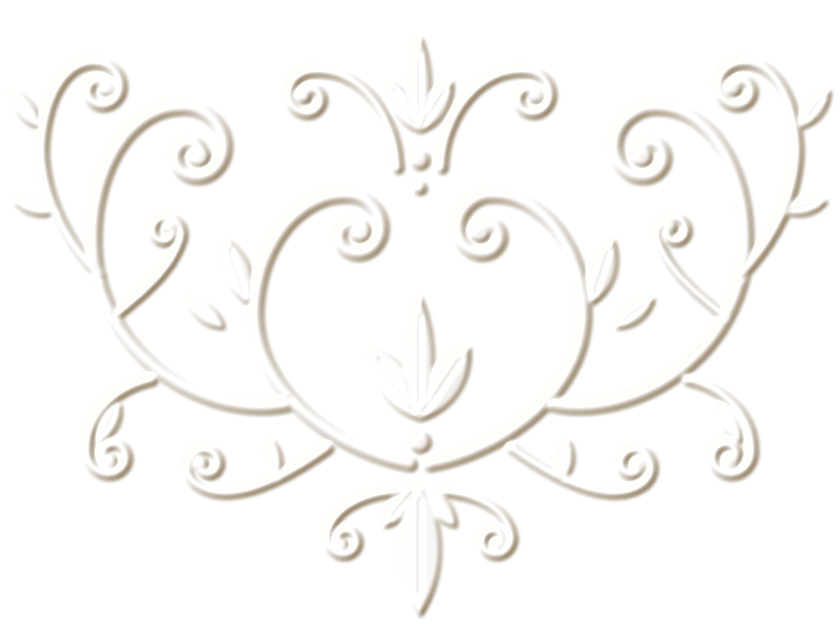
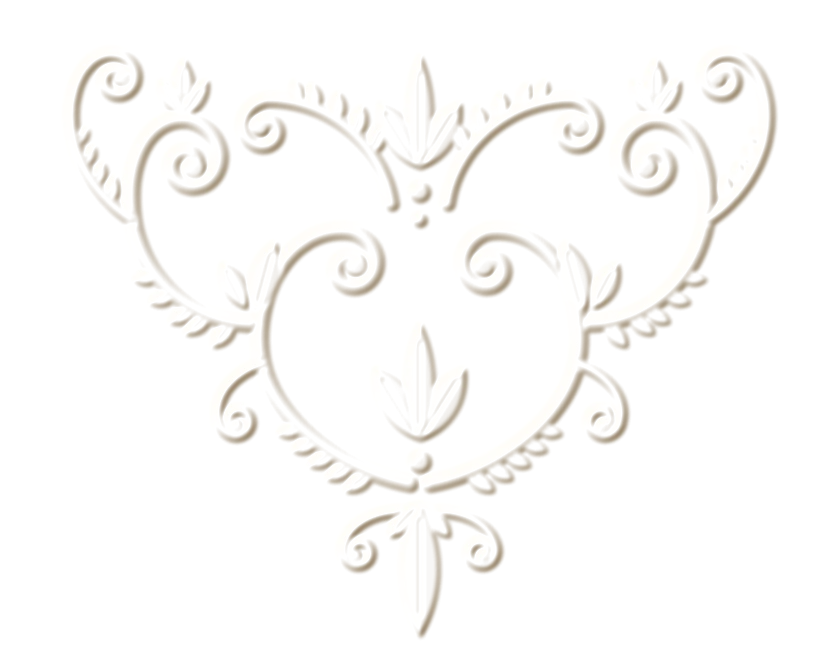
Four-flap embossed envelope with a pearl-and-gold RF seal
- Four flaps meet at the centre again, each with its own embossed scrollwork:
  a triangular damask on the top and bottom flaps, a tall vine on each side
- Scrolls are fuller: rolled volutes with acanthus leaves along them
- The seal is a round badge: pearl disc, polished gold rim and the RF crest
  raised in gold, replacing the free-standing gold letters
- Hint reads "Tap the seal to open"

diff --git a/lib/markup.js b/lib/markup.js
@@ -1,2 +1,2 @@
 // The invitation's HTML. __GUEST__ is replaced with the guest's name.
-export const MARKUP = "<div id=\"ground\" aria-hidden=\"true\"></div>\n<canvas id=\"dust\" aria-hidden=\"true\"></canvas>\n<div id=\"progress\" aria-hidden=\"true\"></div>\n<button id=\"music\" type=\"button\" aria-pressed=\"false\" aria-label=\"Turn music on\" hidden><i></i><i></i><i></i><i></i></button>\n\n<svg width=\"0\" height=\"0\" style=\"position:absolute\" aria-hidden=\"true\">\n  <defs>\n    <symbol id=\"heart\" viewBox=\"0 0 40 40\"><path d=\"M20 33C8 24 5 18 5 13.5C5 9 8.5 6 12.5 6C15.5 6 18.3 7.8 20 11C21.7 7.8 24.5 6 27.5 6C31.5 6 35 9 35 13.5C35 18 32 24 20 33Z\"/></symbol>\n  </defs>\n</svg>\n\n<!-- ============ ENTRANCE ============ -->\n<div id=\"gate\" role=\"dialog\" aria-label=\"Invitation cover\">\n  <div class=\"fw l\"><div class=\"f\"></div></div>\n  <div class=\"fw r\"><div class=\"f\"></div></div>\n  <div class=\"fw b\"><div class=\"f\"></div></div>\n  <div class=\"fw t\"><div class=\"f\"></div></div>\n  <div class=\"glide\"></div>\n  <div class=\"seal-wrap\">\n    <span class=\"ripple idle\"></span><span class=\"ripple b\"></span>\n    <button class=\"seal\" id=\"openBtn\" type=\"button\" aria-label=\"Open invitation\">\n      <img src=\"/emboss/emblem.webp\" alt=\"\" width=\"128\" height=\"128\" draggable=\"false\">\n    </button>\n  </div>\n  <div class=\"tag\">\n    <span class=\"label\">An invitation for</span>\n    <span class=\"sign\" data-guest>__GUEST__</span>\n    <span class=\"label tap\">Tap the emblem to open</span>\n  </div>\n</div>\n\n<main>\n  <!-- ============ CARD 1 \u00b7 NAMES ============ -->\n  <article class=\"card hero\">\n    <div class=\"stage\" style=\"--i:0\" data-mono=\"big\"></div>\n    <p class=\"label stage\" style=\"--i:2\">Wedding Invitation</p>\n    <div class=\"names\">\n      <span class=\"n\" data-split data-groom>Raish Ahemad</span>\n      <div class=\"and stage\" style=\"--i:3\"><span class=\"sign\">and</span></div>\n      <span class=\"n\" data-split data-bride style=\"--base:3.8s\">Falaknaaz</span>\n    </div>\n    <p class=\"dotdate stage\" style=\"--i:7\" data-dot>27.12.2026</p>\n    <p class=\"blessing stage\" style=\"--i:8\">With the grace of the Almighty and the blessings of our elders</p>\n    <p class=\"family stage\" style=\"--i:9\">The Wankanery Family</p>\n  </article>\n\n  <!-- ============ CARD 2 \u00b7 WE ARE DELIGHTED ============ -->\n  <article class=\"card reveal\">\n    <h2 class=\"reveal\">We are delighted</h2>\n    <p class=\"label lead reveal\">to share with you the joy of a day that means everything to us</p>\n    <div class=\"bigdate reveal\">\n      <b data-dm>27.12</b>\n      <div class=\"and\"><span class=\"sign\">day</span></div>\n      <b data-yr>2026</b>\n    </div>\n    <svg class=\"wave reveal\" viewBox=\"0 0 320 40\" aria-hidden=\"true\">\n      <path class=\"l\" d=\"M4 22C60 4 100 36 148 20C156 17 158 8 152 8C146 8 148 18 160 22C210 38 262 6 316 20\"/>\n    </svg>\n    <p class=\"label reveal\">Dear</p>\n    <p class=\"sign guest reveal\" data-guest>__GUEST__</p>\n    <p class=\"text reveal\">It would mean the world to us to have you with us as we begin our life together. Please come, bring your smiles and your blessings, and be part of our happiest day.</p>\n    <p class=\"text reveal\">With love,</p>\n    <p class=\"sign from reveal\"><span data-groom>Raish Ahemad</span> &amp; <span data-bride>Falaknaaz</span></p>\n    <p class=\"label reveal\">and the Wankanery family</p>\n  </article>\n\n  <!-- ============ CARD 3 \u00b7 DATES ============ -->\n  <article class=\"card reveal\">\n    <h2 class=\"reveal\" data-month>December 2026</h2>\n    <div class=\"cal reveal\" id=\"cal\"></div>\n    <div class=\"legend reveal\" id=\"legend\"></div>\n    <div class=\"orn reveal\"><i></i></div>\n    <h2 class=\"reveal\">The celebrations</h2>\n    <div class=\"timeline reveal\" id=\"timeline\"></div>\n  </article>\n\n  <!-- ============ CARD 4 \u00b7 COUNTDOWN & PLACE ============ -->\n  <article class=\"card reveal\">\n    <h2 class=\"reveal\" id=\"countTitle\">Until the wedding</h2>\n    <p class=\"label reveal\" id=\"countSub\">Only a little time left</p>\n    <div class=\"count reveal\" id=\"count\">\n      <div><b id=\"cd\">00</b><span>Days</span></div><i>:</i>\n      <div><b id=\"ch\">00</b><span>Hours</span></div><i>:</i>\n      <div><b id=\"cm\">00</b><span>Minutes</span></div><i>:</i>\n      <div><b id=\"cs\">00</b><span>Seconds</span></div>\n    </div>\n    <div class=\"orn reveal\"><i></i></div>\n    <h2 class=\"reveal\">Locations</h2>\n    <svg class=\"pin reveal\" viewBox=\"0 0 44 56\" aria-hidden=\"true\">\n      <g fill=\"none\" stroke=\"#b3925a\" stroke-width=\"1.2\" stroke-linecap=\"round\" stroke-linejoin=\"round\">\n        <path d=\"M22 52C10 36 6 28 6 20A16 16 0 0 1 38 20C38 28 34 36 22 52Z\"/>\n        <path d=\"M22 27C16.500 22.500 15 20 15 17.800C15 15.600 16.700 14 18.600 14C20 14 21.300 14.900 22 16.400C22.700 14.900 24 14 25.400 14C27.300 14 29 15.600 29 17.800C29 20 27.500 22.500 22 27Z\"/>\n      </g>\n    </svg>\n    <div class=\"venue reveal\">\n      <p class=\"vtag\">Nikah</p>\n      <p class=\"at\">Sunday, 27 December \u00b7 10:00 AM</p>\n      <p class=\"vname\">Juni Eidgah Masjid</p>\n      <p class=\"label\">Salabatpura, Surat</p>\n      <a class=\"btn\" href=\"https://www.google.com/maps/search/?api=1&amp;query=Juni%20Eidgah%20Masjid%2C%20Salabatpura%2C%20Surat\" target=\"_blank\" rel=\"noopener\">Open map</a>\n    </div>\n    <div class=\"venue reveal\">\n      <p class=\"vtag\">Reception</p>\n      <p class=\"at\">Tuesday, 29 December \u00b7 12:00 PM</p>\n      <p class=\"vname\">Hazrat Pir Saiyad Kasim Ali Dargah</p>\n      <p class=\"label\">Near Old Vegetable Market, Dholka, Ahmedabad</p>\n      <a class=\"btn\" href=\"https://share.google/Ud70dLBy3rxCpIHBt\" target=\"_blank\" rel=\"noopener\">Open map</a>\n    </div>\n  </article>\n\n  <!-- ============ CARD 5 \u00b7 WISHES & REPLY ============ -->\n  <article class=\"card last reveal\">\n    <h2 class=\"reveal\">Wishes</h2>\n    <div class=\"wish reveal\"><span class=\"label\">Gifts</span><p>Having you there is all we ask for. Please come as you are and celebrate with us.</p></div>\n    <div class=\"wish reveal\"><span class=\"label\">A request</span><p>Keep us in your prayers and good wishes as we start this new chapter.</p></div>\n    <div class=\"orn reveal\"><i></i></div>\n    <h2 class=\"reveal\">Contact</h2>\n    <p class=\"label lead reveal\">For any help on the day, please call</p>\n    <a class=\"contact reveal\" href=\"tel:+919408782333\"><span class=\"label\">Raish Ahemad</span><b>94087 82333</b></a>\n    <a class=\"contact reveal\" href=\"tel:+919825594333\"><span class=\"label\">Zishan Momin</span><b>98255 94333</b></a>\n    <svg class=\"wave reveal\" viewBox=\"0 0 320 40\" aria-hidden=\"true\" style=\"margin-top:20px\">\n      <path class=\"l\" d=\"M4 20C60 4 104 34 140 20M180 20C216 6 260 36 316 20\"/><use class=\"h beat\" href=\"#heart\" x=\"150\" y=\"10\" width=\"20\" height=\"20\"/>\n    </svg>\n    <p class=\"label reveal\">We are waiting for you</p>\n    <p class=\"sign guest reveal\" data-guest>__GUEST__</p>\n    <p class=\"family reveal\">The Wankanery Family</p>\n    <div class=\"reveal\" data-mono=\"small\"></div>\n  </article>\n</main>\n\n<div class=\"foot\"></div>";
+export const MARKUP = "<div id=\"ground\" aria-hidden=\"true\"></div>\n<canvas id=\"dust\" aria-hidden=\"true\"></canvas>\n<div id=\"progress\" aria-hidden=\"true\"></div>\n<button id=\"music\" type=\"button\" aria-pressed=\"false\" aria-label=\"Turn music on\" hidden><i></i><i></i><i></i><i></i></button>\n\n<svg width=\"0\" height=\"0\" style=\"position:absolute\" aria-hidden=\"true\">\n  <defs>\n    <symbol id=\"heart\" viewBox=\"0 0 40 40\"><path d=\"M20 33C8 24 5 18 5 13.5C5 9 8.5 6 12.5 6C15.5 6 18.3 7.8 20 11C21.7 7.8 24.5 6 27.5 6C31.5 6 35 9 35 13.5C35 18 32 24 20 33Z\"/></symbol>\n  </defs>\n</svg>\n\n<!-- ============ ENTRANCE ============ -->\n<div id=\"gate\" role=\"dialog\" aria-label=\"Invitation cover\">\n  <div class=\"fw l\"><div class=\"f\"></div></div>\n  <div class=\"fw r\"><div class=\"f\"></div></div>\n  <div class=\"fw b\"><div class=\"f\"></div></div>\n  <div class=\"fw t\"><div class=\"f\"></div></div>\n  <div class=\"glide\"></div>\n  <div class=\"seal-wrap\">\n    <span class=\"ripple idle\"></span><span class=\"ripple b\"></span>\n    <button class=\"seal\" id=\"openBtn\" type=\"button\" aria-label=\"Open invitation\">\n      <img src=\"/emboss/badge.webp\" alt=\"\" width=\"136\" height=\"136\" draggable=\"false\">\n    </button>\n  </div>\n  <div class=\"tag\">\n    <span class=\"label\">An invitation for</span>\n    <span class=\"sign\" data-guest>__GUEST__</span>\n    <span class=\"label tap\">Tap the seal to open</span>\n  </div>\n</div>\n\n<main>\n  <!-- ============ CARD 1 \u00b7 NAMES ============ -->\n  <article class=\"card hero\">\n    <div class=\"stage\" style=\"--i:0\" data-mono=\"big\"></div>\n    <p class=\"label stage\" style=\"--i:2\">Wedding Invitation</p>\n    <div class=\"names\">\n      <span class=\"n\" data-split data-groom>Raish Ahemad</span>\n      <div class=\"and stage\" style=\"--i:3\"><span class=\"sign\">and</span></div>\n      <span class=\"n\" data-split data-bride style=\"--base:3.8s\">Falaknaaz</span>\n    </div>\n    <p class=\"dotdate stage\" style=\"--i:7\" data-dot>27.12.2026</p>\n    <p class=\"blessing stage\" style=\"--i:8\">With the grace of the Almighty and the blessings of our elders</p>\n    <p class=\"family stage\" style=\"--i:9\">The Wankanery Family</p>\n  </article>\n\n  <!-- ============ CARD 2 \u00b7 WE ARE DELIGHTED ============ -->\n  <article class=\"card reveal\">\n    <h2 class=\"reveal\">We are delighted</h2>\n    <p class=\"label lead reveal\">to share with you the joy of a day that means everything to us</p>\n    <div class=\"bigdate reveal\">\n      <b data-dm>27.12</b>\n      <div class=\"and\"><span class=\"sign\">day</span></div>\n      <b data-yr>2026</b>\n    </div>\n    <svg class=\"wave reveal\" viewBox=\"0 0 320 40\" aria-hidden=\"true\">\n      <path class=\"l\" d=\"M4 22C60 4 100 36 148 20C156 17 158 8 152 8C146 8 148 18 160 22C210 38 262 6 316 20\"/>\n    </svg>\n    <p class=\"label reveal\">Dear</p>\n    <p class=\"sign guest reveal\" data-guest>__GUEST__</p>\n    <p class=\"text reveal\">It would mean the world to us to have you with us as we begin our life together. Please come, bring your smiles and your blessings, and be part of our happiest day.</p>\n    <p class=\"text reveal\">With love,</p>\n    <p class=\"sign from reveal\"><span data-groom>Raish Ahemad</span> &amp; <span data-bride>Falaknaaz</span></p>\n    <p class=\"label reveal\">and the Wankanery family</p>\n  </article>\n\n  <!-- ============ CARD 3 \u00b7 DATES ============ -->\n  <article class=\"card reveal\">\n    <h2 class=\"reveal\" data-month>December 2026</h2>\n    <div class=\"cal reveal\" id=\"cal\"></div>\n    <div class=\"legend reveal\" id=\"legend\"></div>\n    <div class=\"orn reveal\"><i></i></div>\n    <h2 class=\"reveal\">The celebrations</h2>\n    <div class=\"timeline reveal\" id=\"timeline\"></div>\n  </article>\n\n  <!-- ============ CARD 4 \u00b7 COUNTDOWN & PLACE ============ -->\n  <article class=\"card reveal\">\n    <h2 class=\"reveal\" id=\"countTitle\">Until the wedding</h2>\n    <p class=\"label reveal\" id=\"countSub\">Only a little time left</p>\n    <div class=\"count reveal\" id=\"count\">\n      <div><b id=\"cd\">00</b><span>Days</span></div><i>:</i>\n      <div><b id=\"ch\">00</b><span>Hours</span></div><i>:</i>\n      <div><b id=\"cm\">00</b><span>Minutes</span></div><i>:</i>\n      <div><b id=\"cs\">00</b><span>Seconds</span></div>\n    </div>\n    <div class=\"orn reveal\"><i></i></div>\n    <h2 class=\"reveal\">Locations</h2>\n    <svg class=\"pin reveal\" viewBox=\"0 0 44 56\" aria-hidden=\"true\">\n      <g fill=\"none\" stroke=\"#b3925a\" stroke-width=\"1.2\" stroke-linecap=\"round\" stroke-linejoin=\"round\">\n        <path d=\"M22 52C10 36 6 28 6 20A16 16 0 0 1 38 20C38 28 34 36 22 52Z\"/>\n        <path d=\"M22 27C16.500 22.500 15 20 15 17.800C15 15.600 16.700 14 18.600 14C20 14 21.300 14.900 22 16.400C22.700 14.900 24 14 25.400 14C27.300 14 29 15.600 29 17.800C29 20 27.500 22.500 22 27Z\"/>\n      </g>\n    </svg>\n    <div class=\"venue reveal\">\n      <p class=\"vtag\">Nikah</p>\n      <p class=\"at\">Sunday, 27 December \u00b7 10:00 AM</p>\n      <p class=\"vname\">Juni Eidgah Masjid</p>\n      <p class=\"label\">Salabatpura, Surat</p>\n      <a class=\"btn\" href=\"https://www.google.com/maps/search/?api=1&amp;query=Juni%20Eidgah%20Masjid%2C%20Salabatpura%2C%20Surat\" target=\"_blank\" rel=\"noopener\">Open map</a>\n    </div>\n    <div class=\"venue reveal\">\n      <p class=\"vtag\">Reception</p>\n      <p class=\"at\">Tuesday, 29 December \u00b7 12:00 PM</p>\n      <p class=\"vname\">Hazrat Pir Saiyad Kasim Ali Dargah</p>\n      <p class=\"label\">Near Old Vegetable Market, Dholka, Ahmedabad</p>\n      <a class=\"btn\" href=\"https://share.google/Ud70dLBy3rxCpIHBt\" target=\"_blank\" rel=\"noopener\">Open map</a>\n    </div>\n  </article>\n\n  <!-- ============ CARD 5 \u00b7 WISHES & REPLY ============ -->\n  <article class=\"card last reveal\">\n    <h2 class=\"reveal\">Wishes</h2>\n    <div class=\"wish reveal\"><span class=\"label\">Gifts</span><p>Having you there is all we ask for. Please come as you are and celebrate with us.</p></div>\n    <div class=\"wish reveal\"><span class=\"label\">A request</span><p>Keep us in your prayers and good wishes as we start this new chapter.</p></div>\n    <div class=\"orn reveal\"><i></i></div>\n    <h2 class=\"reveal\">Contact</h2>\n    <p class=\"label lead reveal\">For any help on the day, please call</p>\n    <a class=\"contact reveal\" href=\"tel:+919408782333\"><span class=\"label\">Raish Ahemad</span><b>94087 82333</b></a>\n    <a class=\"contact reveal\" href=\"tel:+919825594333\"><span class=\"label\">Zishan Momin</span><b>98255 94333</b></a>\n    <svg class=\"wave reveal\" viewBox=\"0 0 320 40\" aria-hidden=\"true\" style=\"margin-top:20px\">\n      <path class=\"l\" d=\"M4 20C60 4 104 34 140 20M180 20C216 6 260 36 316 20\"/><use class=\"h beat\" href=\"#heart\" x=\"150\" y=\"10\" width=\"20\" height=\"20\"/>\n    </svg>\n    <p class=\"label reveal\">We are waiting for you</p>\n    <p class=\"sign guest reveal\" data-guest>__GUEST__</p>\n    <p class=\"family reveal\">The Wankanery Family</p>\n    <div class=\"reveal\" data-mono=\"small\"></div>\n  </article>\n</main>\n\n<div class=\"foot\"></div>";

diff --git a/app/globals.css b/app/globals.css
@@ -1,4 +1,4 @@
-/* Layout idea: a blind-embossed envelope, its pointed flap held by a gold RF emblem, unfolds onto a
+/* Layout idea: a blind-embossed envelope, four flaps meeting under a pearl-and-gold RF seal, unfolds onto a
    column of rounded cream cards. Thin capitals, pearls resting on the cards, gold kept to fine detail. */
 :root{
   color-scheme: light;
@@ -79,40 +79,43 @@ h2.pre{letter-spacing:.34em;opacity:0}
 .mono .mdate{font-family:var(--font-mono);font-size:6.4px;letter-spacing:.34em;fill:var(--gold);transition:opacity 1.4s ease 2s}
 .mono.pre .mdate{opacity:0}
 
-/* ---------- entrance: an embossed envelope; the gold RF emblem at the flap's point opens it ---------- */
+/* ---------- entrance: four embossed flaps meeting under the seal, which opens them ---------- */
 #gate{position:fixed;inset:0;z-index:50;perspective:1900px;overflow:hidden}
 #gate.open{pointer-events:none}
 .fw{position:absolute;inset:0;backface-visibility:hidden;transition:transform 1.5s cubic-bezier(.6,.04,.3,1)}
 .fw .f{position:absolute;inset:0;background:var(--grain) #f3ede2}
 .fw .f::before{content:"";position:absolute;inset:0;background:var(--decor);opacity:0;transition:opacity 1.2s ease}
 .paper .fw .f::before{opacity:1}
-/* blind-embossed scrollwork (scripts/emboss.mjs): on the top flap, ending above the emblem, and mirrored on the lower flap */
-.fw.t{--decor:url(/emboss/ornament-top.webp) no-repeat center top 3vh / auto min(36vh - 26px, 66vw)}
-.fw.b{--decor:url(/emboss/ornament-bottom.webp) no-repeat center bottom -1vh / auto min(40vh, 70vw)}
+/* blind-embossed scrollwork (scripts/emboss.mjs): a triangle of it on the top and bottom flaps, a tall vine on each side flap */
+#gate{--orn:min(92vw, (47vh - 84px) * 1.27);--vine:min(66vh, 150vw)}
+.fw.t{--decor:url(/emboss/ornament-top.webp) no-repeat center top 12px / var(--orn) auto}
+.fw.b{--decor:url(/emboss/ornament-bottom.webp) no-repeat center bottom 12px / var(--orn) auto}
+.fw.l{--decor:url(/emboss/ornament-left.webp) no-repeat left 2px top calc(47% - var(--vine) * .03) / auto var(--vine)}   /* its middle on the flaps' meeting line */
+.fw.r{--decor:url(/emboss/ornament-right.webp) no-repeat right 2px top calc(47% - var(--vine) * .03) / auto var(--vine)}
 .fw .f::after{content:"";position:absolute;inset:0}
-.fw.l{transform-origin:0 50%}.fw.l .f{clip-path:polygon(0 0,50.2% 46%,0 100%)}.fw.l .f::after{background:linear-gradient(90deg,rgba(120,95,50,.02),rgba(120,95,50,.14))}
-.fw.r{transform-origin:100% 50%}.fw.r .f{clip-path:polygon(100% 0,49.8% 46%,100% 100%)}.fw.r .f::after{background:linear-gradient(270deg,rgba(120,95,50,.03),rgba(120,95,50,.17))}
-.fw.b{transform-origin:50% 100%;filter:drop-shadow(0 -1px 0 rgba(255,252,244,.85)) drop-shadow(0 -3px 6px rgba(95,72,35,.3))}.fw.b .f{clip-path:polygon(0 100%,0 66%,50% 40%,100% 66%,100% 100%)}.fw.b .f::after{background:linear-gradient(0deg,rgba(255,255,255,.1),rgba(255,255,255,0) 60%)}
-.fw.t{transform-origin:50% 0;filter:drop-shadow(0 1px 0 rgba(196,160,88,.95)) drop-shadow(0 4px 8px rgba(95,72,35,.38));animation:breathe 5s ease-in-out infinite}.fw.t .f{clip-path:polygon(0 0,100% 0,100% 24%,50% 46%,0 24%)}.fw.t .f::after{background:linear-gradient(180deg,rgba(255,255,255,.16),rgba(255,255,255,.04))}
+.fw.l{transform-origin:0 50%}.fw.l .f{clip-path:polygon(0 0,50.2% 47%,0 100%)}.fw.l .f::after{background:linear-gradient(90deg,rgba(120,95,50,.02),rgba(120,95,50,.14))}
+.fw.r{transform-origin:100% 50%}.fw.r .f{clip-path:polygon(100% 0,49.8% 47%,100% 100%)}.fw.r .f::after{background:linear-gradient(270deg,rgba(120,95,50,.03),rgba(120,95,50,.17))}
+.fw.b{transform-origin:50% 100%;filter:drop-shadow(0 -1px 0 rgba(255,252,244,.85)) drop-shadow(0 -3px 6px rgba(95,72,35,.3))}.fw.b .f{clip-path:polygon(0 100%,100% 100%,50% 46.6%)}.fw.b .f::after{background:linear-gradient(0deg,rgba(255,255,255,.1),rgba(255,255,255,0) 60%)}
+.fw.t{transform-origin:50% 0;filter:drop-shadow(0 1px 0 rgba(196,160,88,.95)) drop-shadow(0 4px 8px rgba(95,72,35,.38));animation:breathe 5s ease-in-out infinite}.fw.t .f{clip-path:polygon(0 0,100% 0,50% 47%)}.fw.t .f::after{background:linear-gradient(180deg,rgba(255,255,255,.16),rgba(255,255,255,.04))}
 #gate.open .fw.t{transform:rotateX(-118deg);transition-delay:.3s;animation:none}
 #gate.open .fw.b{transform:rotateX(118deg);transition-delay:.5s}
 #gate.open .fw.l{transform:rotateY(118deg);transition-delay:.72s}
 #gate.open .fw.r{transform:rotateY(-118deg);transition-delay:.72s}
 .glide{position:absolute;inset:0;background:linear-gradient(115deg,transparent 40%,rgba(255,255,255,.28) 50%,transparent 60%);background-size:300% 100%;animation:sheen 7s ease-in-out infinite;pointer-events:none;transition:opacity .4s}
 #gate.open .glide{opacity:0}
-.seal-wrap{position:absolute;left:calc(50% - 64px);top:calc(46% - 70px);width:128px;height:128px;z-index:3;animation:sealIn 1.1s cubic-bezier(.3,1.5,.5,1) backwards .35s}
+.seal-wrap{position:absolute;left:calc(50% - 68px);top:calc(47% - 68px);width:136px;height:136px;z-index:3;animation:sealIn 1.1s cubic-bezier(.3,1.5,.5,1) backwards .35s}
 .seal{position:relative;width:100%;height:100%;border:0;padding:0;background:none;cursor:pointer;border-radius:50%;animation:pulse 2.8s ease-in-out infinite 1.6s;transition:transform .6s, opacity .5s ease .1s}
 .seal img{width:100%;height:100%;display:block;filter:drop-shadow(0 7px 7px rgba(70,48,10,.42)) drop-shadow(0 1px 1px rgba(70,48,10,.45))}
-/* a glint that crosses the gold only: the emblem's own outline is the mask */
+/* a glint that crosses the seal only: its own outline is the mask */
 .seal::after{content:"";position:absolute;inset:0;pointer-events:none;background:linear-gradient(115deg,transparent 38%,rgba(255,250,225,.85) 50%,transparent 62%) 120% 0/300% 100%;
-  -webkit-mask:url(/emboss/emblem.webp) center/contain no-repeat;mask:url(/emboss/emblem.webp) center/contain no-repeat;animation:sheen 4.5s ease-in-out infinite 2s}
+  -webkit-mask:url(/emboss/badge.webp) center/contain no-repeat;mask:url(/emboss/badge.webp) center/contain no-repeat;animation:sheen 4.5s ease-in-out infinite 2s}
 #gate.open .seal{transform:scale(1.25) translateY(-14px);opacity:0}
 .ripple{position:absolute;inset:4px;border-radius:50%;border:1px solid rgba(201,166,94,.9);opacity:0;pointer-events:none}
 .ripple.idle{animation:ripple 2.8s ease-out infinite 2s}
 #gate.open .ripple{animation:ripple 1s ease-out 2}
 #gate.open .ripple.b{animation-delay:.18s}
 .tag{
-  position:absolute;left:50%;top:calc(46% + 74px);translate:-50% 0;width:min(84vw,340px);padding:20px 18px 18px;text-align:center;z-index:2;
+  position:absolute;left:50%;top:calc(47% + 84px);translate:-50% 0;width:min(84vw,340px);padding:20px 18px 18px;text-align:center;z-index:2;
   background:var(--grain), linear-gradient(180deg,#fdfaf3,#f4ecdd);border-radius:4px;
   box-shadow:0 0 0 1px rgba(179,146,90,.5) inset,0 0 0 5px #fbf7ee inset,0 0 0 6px rgba(179,146,90,.35) inset,0 1px 0 rgba(255,255,255,.9) inset,
     0 2px 0 #e4d7bf,0 3px 3px rgba(85,62,25,.2),0 10px 16px rgba(85,62,25,.18),0 22px 38px rgba(85,62,25,.22);

diff --git a/lib/invitation.js b/lib/invitation.js
@@ -13,7 +13,7 @@ export function initInvitation(root, guest){
   function rng(seed){ return () => { seed = seed + 0x6D2B79F5 | 0; let t = Math.imul(seed ^ seed >>> 15, 1 | seed); t = t + Math.imul(t ^ t >>> 7, 61 | t) ^ t; return ((t ^ t >>> 14) >>> 0) / 4294967296; }; }
 
   /* ---------- embossed scrollwork on the flaps (made by scripts/emboss.mjs): faded in once it has arrived ---------- */
-  Promise.all(["ornament-top", "ornament-bottom"].map(n => {
+  Promise.all(["ornament-top", "ornament-bottom", "ornament-left", "ornament-right"].map(n => {
     const img = new Image(); img.src = `/emboss/${n}.webp`;
     return img.decode().catch(() => {});
   })).then(() => document.documentElement.classList.add("paper"));

diff --git a/app/layout.js b/app/layout.js
@@ -12,7 +12,7 @@ export default function RootLayout({ children }) {
   return (
     <html lang="en">
       <head>
-        {["emblem", "ornament-top", "ornament-bottom"].map((n) => (
+        {["badge", "ornament-top", "ornament-bottom", "ornament-left", "ornament-right"].map((n) => (
           <link key={n} rel="preload" href={`/emboss/${n}.webp`} as="image" type="image/webp" />
         ))}
         <link rel="preconnect" href="https://fonts.googleapis.com" />

diff --git a/README.md b/README.md
@@ -27,7 +27,7 @@ Add the guest's name to the end of the link, with hyphens for spaces:
 | `lib/markup.js` | The invitation's HTML: venues, contact numbers, wording, family name |
 | `app/globals.css` | All styles and animations (colours are at the top) |
 | `lib/invitation.js` | The script: crest, entrance, countdown, timeline, music |
-| `scripts/emboss.mjs` | Draws the envelope's embossed scrollwork, the gold RF emblem and the paper into `public/emboss/` and `public/paper.webp` (run `npm run emboss` after changing it or the initials) |
+| `scripts/emboss.mjs` | Draws the envelope's embossed scrollwork, the pearl-and-gold RF seal and the paper into `public/emboss/` and `public/paper.webp` (run `npm run emboss` after changing it or the initials) |
 | `lib/guest.js` | Turns the link ending into a guest name |
 | `components/Invitation.jsx` | The component that shows the invitation |
 | `app/page.js` | The general link |
